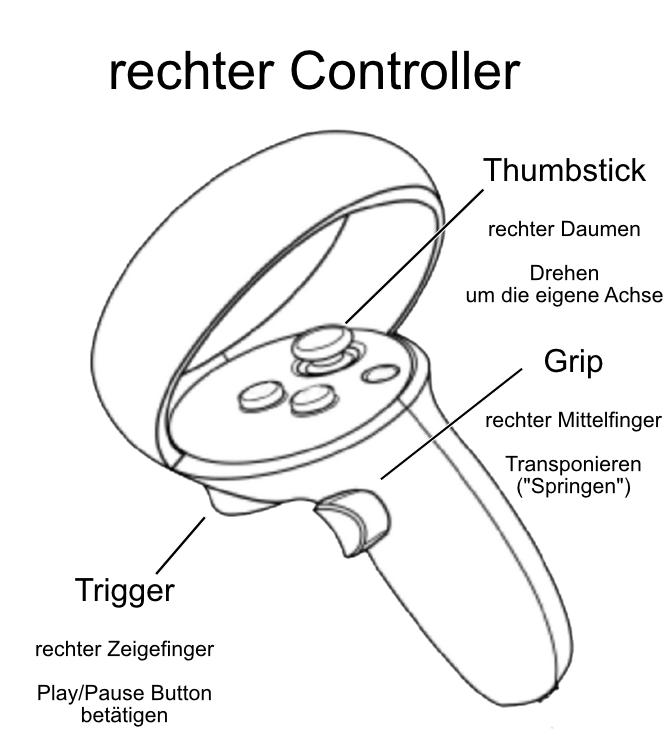
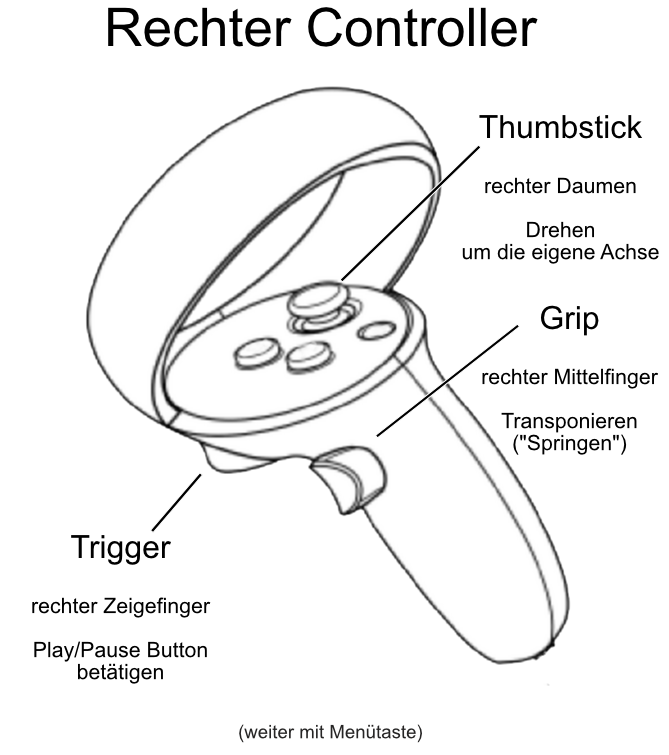
Navigation verbessert (UI)
Anleitung zur Bedienung der Controller hinzugefügt,
Neuen Grundriss Galerie eingefügt und angepasst,
Richtungspfeile für Laufrichtung eingefügt

diff --git a/Assets/image.cs b/Assets/image.cs
@@ -1,0 +1,18 @@
+using System.Collections;
+using System.Collections.Generic;
+using UnityEngine;
+
+public class image : MonoBehaviour
+{
+    // Start is called before the first frame update
+    void Start()
+    {
+        
+    }
+
+    // Update is called once per frame
+    void Update()
+    {
+        
+    }
+}

diff --git a/Assets/Gallery Assets/Scripts/NextSlide.cs b/Assets/Gallery Assets/Scripts/NextSlide.cs
@@ -14,8 +14,6 @@ public class NextSlide : MonoBehaviour
     private Image img_BGintroPanel;
     private int introSlide = 0;
 
-
-
     private void Start()
     {
         img_BGintroPanel = introPanel.GetComponent<Image>();
